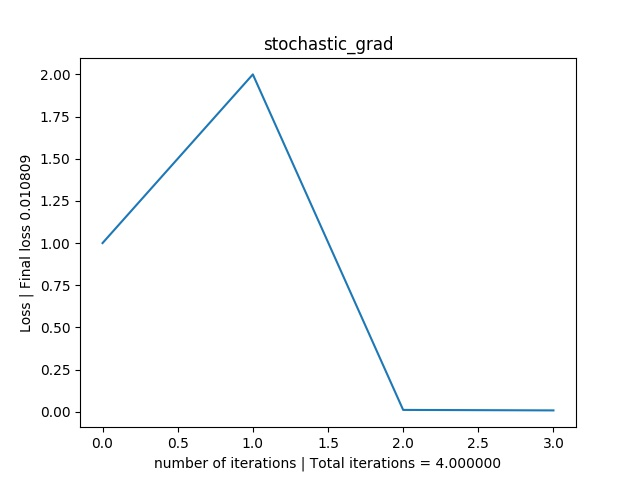
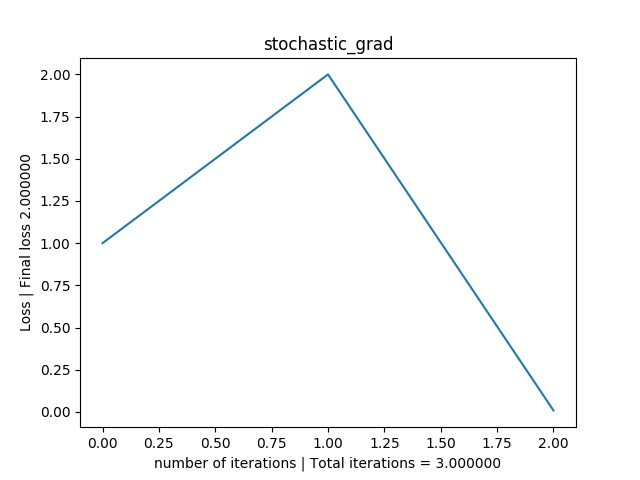
Final Commit

diff --git a/functions.py b/functions.py
@@ -1,7 +1,6 @@
 import numpy as np
 from matplotlib import pyplot as plt
 import random as rd
-import pandas as pd
 import inspect
 from functions import *
 import idx2numpy as idx
@@ -16,12 +15,12 @@ def initialize_weights(number_of_features,val=10**-2):
 
 def func(x,y,a=7,b=3):
 	# return (y/a)**2+(x/b)**2-1
-	# return y-x+1
-	return y-x**2+4
+	return y-x+1
+	# return y-x**2+4
 	# return y-5*np.sin(x/10*np.pi)
 
 #Creates the feature 
-def create_features(x1,x2,level=1):
+def create_features(x1,x2,level=0):
 	if level==0:
 		X = np.ones((len(x1),3))
 		X[:,1]=x1
@@ -46,17 +45,20 @@ def batch_grad(X_training,y_training,alpha,grad_threshold):
 	grad_w=np.full(number_of_features,11)
 	L=np.array([1,2])
 	count = 1
-	print(X_training[-5:,:])
-	while (abs(L[count]-L[count-1])>grad_threshold):
+	print(X_training.shape)
+	# while (abs(L[count]-L[count-1])>grad_threshold):
+	while (L[count]>0.01):
 		Y_training=sigmoid(np.dot(X_training,w.T))
 		grad_w=np.dot(-1*2*(y_training-Y_training).T,X_training)/data_size
 		w=w-alpha*grad_w
 		count+=1
-		val=sum(y_training*np.log(Y_training)+(1-y_training)*np.log(1-Y_training))/float(data_size)*-1
+		Y_training=sigmoid(np.dot(X_training,w.T))
+		val=sum(y_training*np.log(Y_training+0.0001)+(1-y_training)*np.log(1-Y_training+0.0001))/float(data_size)*-1
 		L=np.append(L,val)
-		useful_plots(L,count,X_training,y_training,w,inspect.getframeinfo(inspect.currentframe())[2])
-	write_plot(L,count,X_training,y_training,w,inspect.getframeinfo(inspect.currentframe())[2])	
-	return w
+		# print(val,count)
+		# if count%1000==0:
+		# 	useful_plots(L,count,X_training,y_training,w,inspect.getframeinfo(inspect.currentframe())[2])
+	# write_plot(L,count,X_training,y_training,w,inspect.getframeinfo(inspect.currentframe())[2])	
 
 def stochastic_grad(X_training,y_training,alpha,grad_threshold):
 	number_of_features=X_training.shape[1]

diff --git a/part_2.py b/part_2.py
@@ -2,10 +2,15 @@ from functions import *
 import numpy as np
 
 train_imgs,y_training,test_imgs,y_test=import_mnist()
+#Without Normalising
+X_training=train_imgs.reshape(-1,784)
+X_test=test_imgs.reshape(-1,784)
+w=stochastic_grad(X_training,y_training,10**-2,0.01)
+print(calc_error(X_test,y_test,w))
+
+#With Normalising
 X_training=train_imgs.reshape(-1,784)/255
-print(np.max(X_training),np.min(X_training))
 X_test=test_imgs.reshape(-1,784)/255
 w=stochastic_grad(X_training,y_training,10**-2,0.01)
-
 print(calc_error(X_test,y_test,w))
 plt.pause(4)

diff --git a/part_1.py b/part_1.py
@@ -8,7 +8,7 @@ x1,x2,y=sample_hypothesis(data_size)
 X=create_features(x1,x2)
 X_training,y_training,X_test,y_test=separate_datasets(X,y)
 w = stochastic_grad(X_training,y_training,10**-2,0.0001)
-# w = batch_grad(X,y,10**-1,0.0001)
+w = batch_grad(X_training,y_training,10**-1,0.0001)
 print(calc_error(X_test,y_test,w))
 plt.pause(4)
 plt.close()
